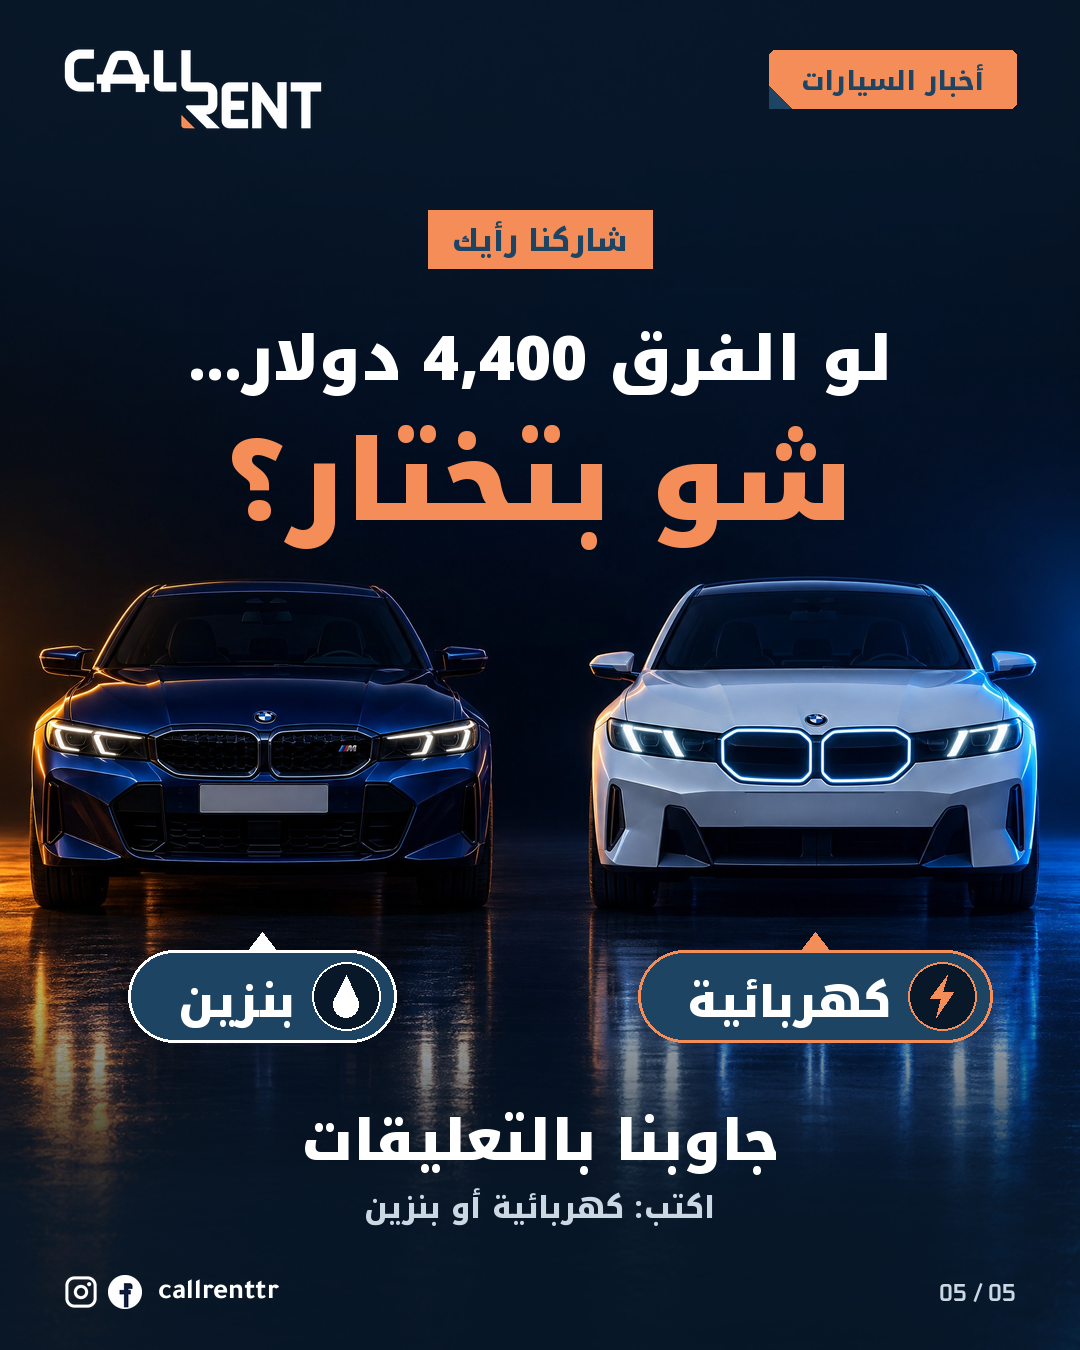
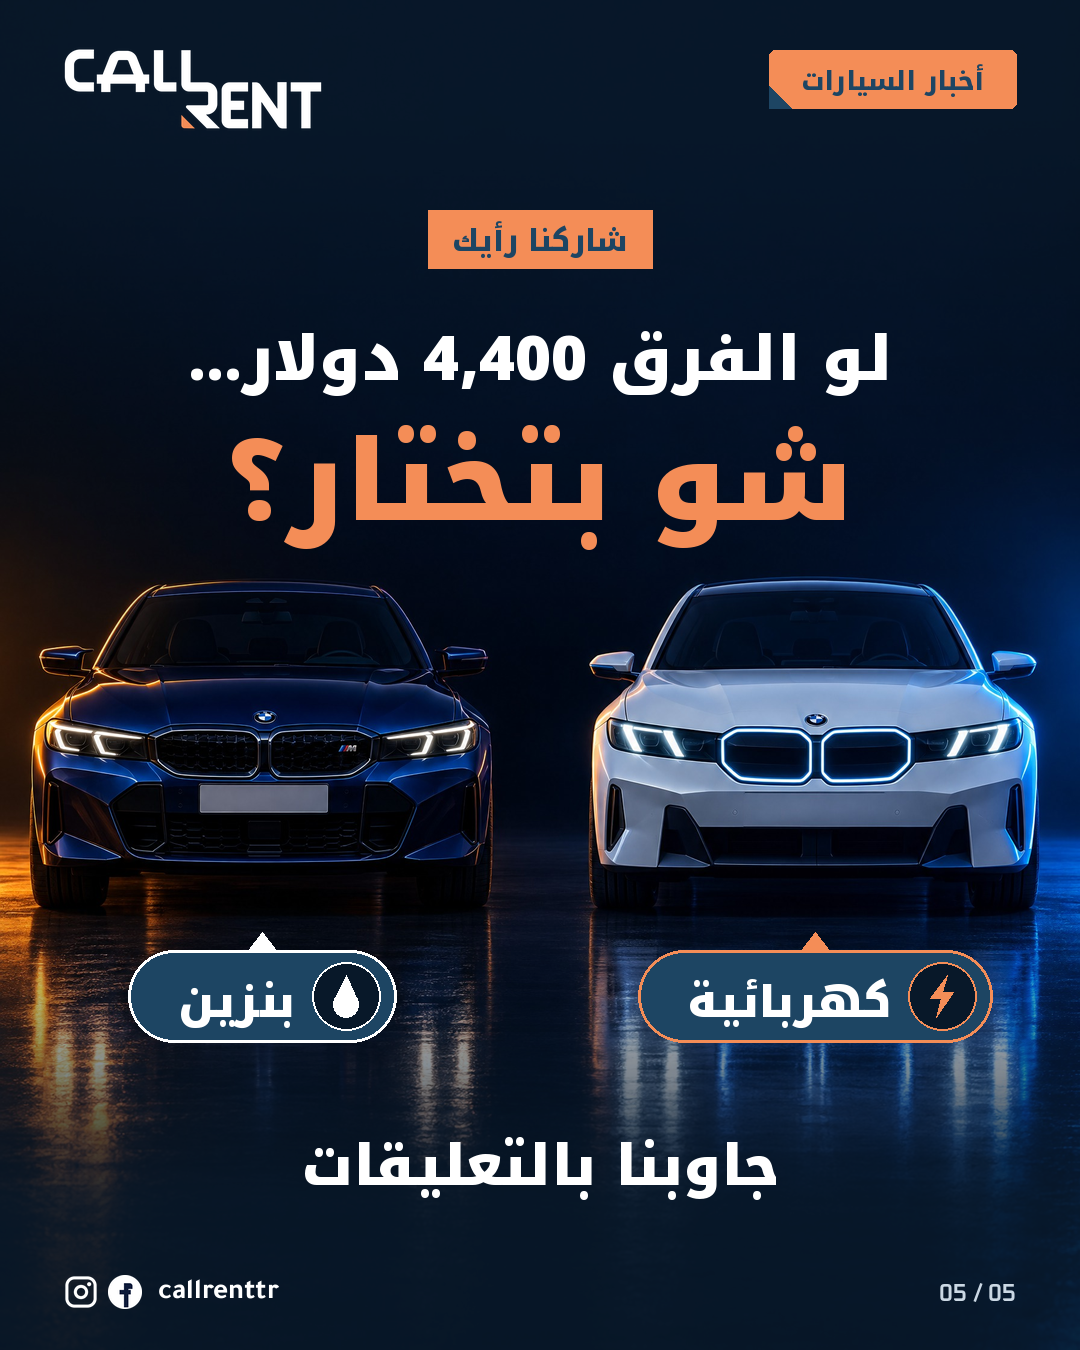
Poll slide: drop the answer hint line
Claude-Session: https://claude.ai/code/session_01JWxxZZBXcuDznNNTjM86b7

Changed region(s): [[0.275, 0.8089, 0.7333, 0.9022]]

diff --git a/marketing/news/news_carousel.py b/marketing/news/news_carousel.py
@@ -172,8 +172,9 @@ def poll(sl, page, total):
         (icon_bolt if ic == 'bolt' else icon_drop)(d, x0+pw-50, y0+46, 42, icol)
         d.text((x0+pw-100, y0+ph/2+6), label, font=fl, fill=Wh+(255,), anchor='rm', direction='rtl', language='ar')
         d.polygon([(cx-14, y0), (cx+14, y0), (cx, y0-18)], fill=icol+(255,))
-    d.text((W/2, 1160), sl['cta'], font=F(AR_BLACK, 56), fill=Wh+(255,), anchor='ms', direction='rtl', language='ar')
-    d.text((W/2, 1218), sl['hint'], font=F(AR_BOLD, 30), fill=SOFT+(255,), anchor='ms', direction='rtl', language='ar')
+    d.text((W/2, 1185), sl['cta'], font=F(AR_BLACK, 56), fill=Wh+(255,), anchor='ms', direction='rtl', language='ar')
+    if sl.get('hint'):
+        d.text((W/2, 1218), sl['hint'], font=F(AR_BOLD, 30), fill=SOFT+(255,), anchor='ms', direction='rtl', language='ar')
     return cv
 
 NB = ' '
@@ -197,7 +198,7 @@ SLIDES = [
                ('سعر الشراء الأولي،', O), ('وليس فقط في تكلفة التشغيل والملكية.', Wh)]),
     dict(kind='poll', bg='bmw-5-poll.jpg', chip='شاركنا رأيك', q1='لو الفرق 4,400 دولار...', q2='شو بتختار؟',
          options=[('كهربائية', 'bolt', O, 815), ('بنزين', 'drop', Wh, 262)], tag_y=950,
-         cta='جاوبنا بالتعليقات', hint='اكتب: كهربائية أو بنزين'),
+         cta='جاوبنا بالتعليقات'),
 ]
 
 os.makedirs(OUT, exist_ok=True)
